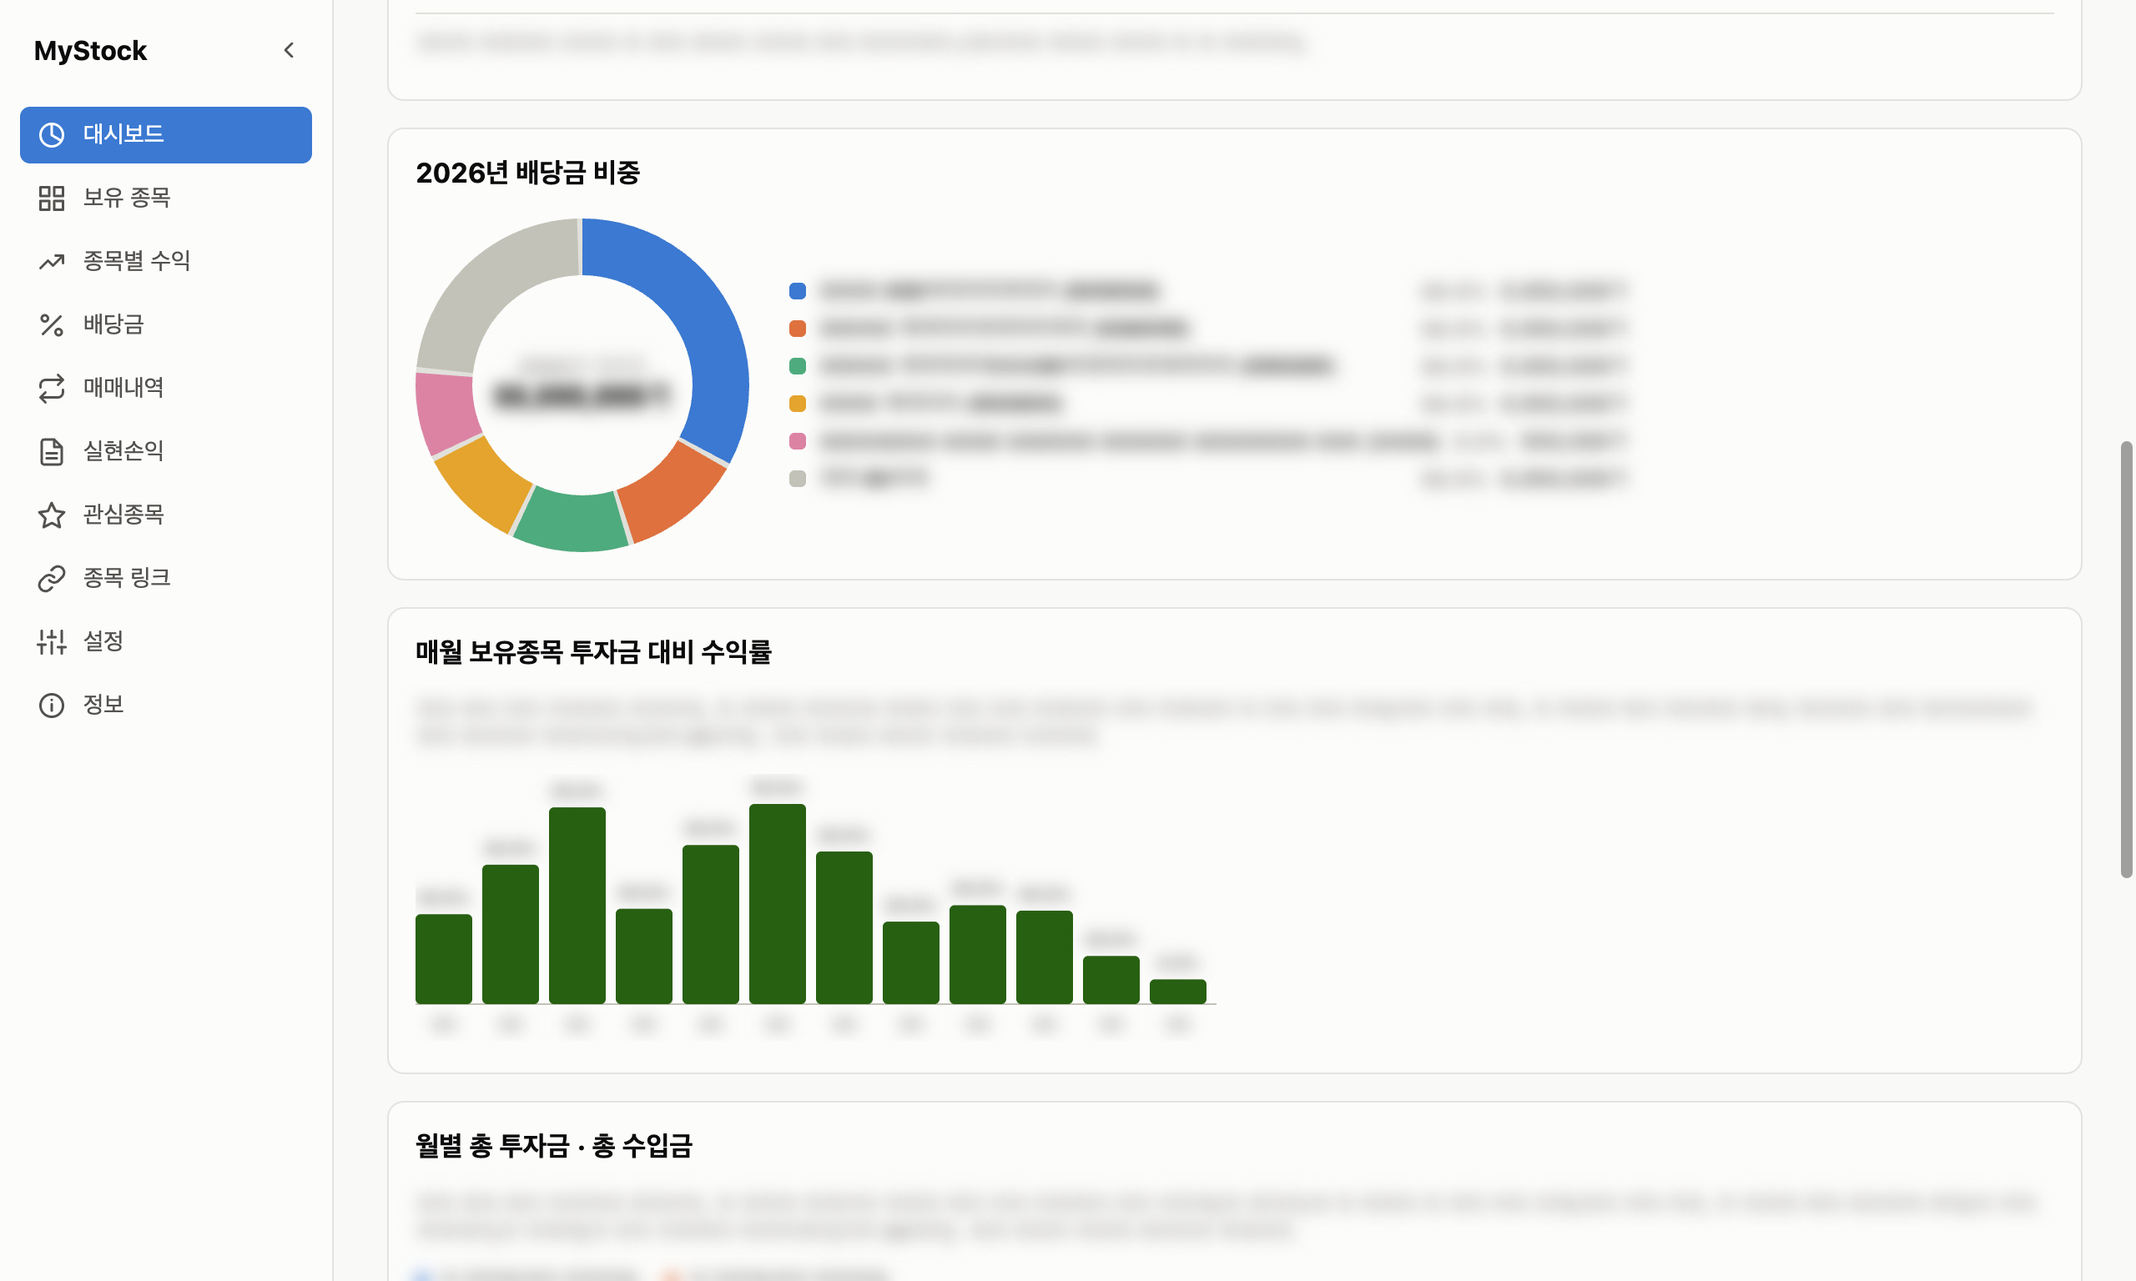
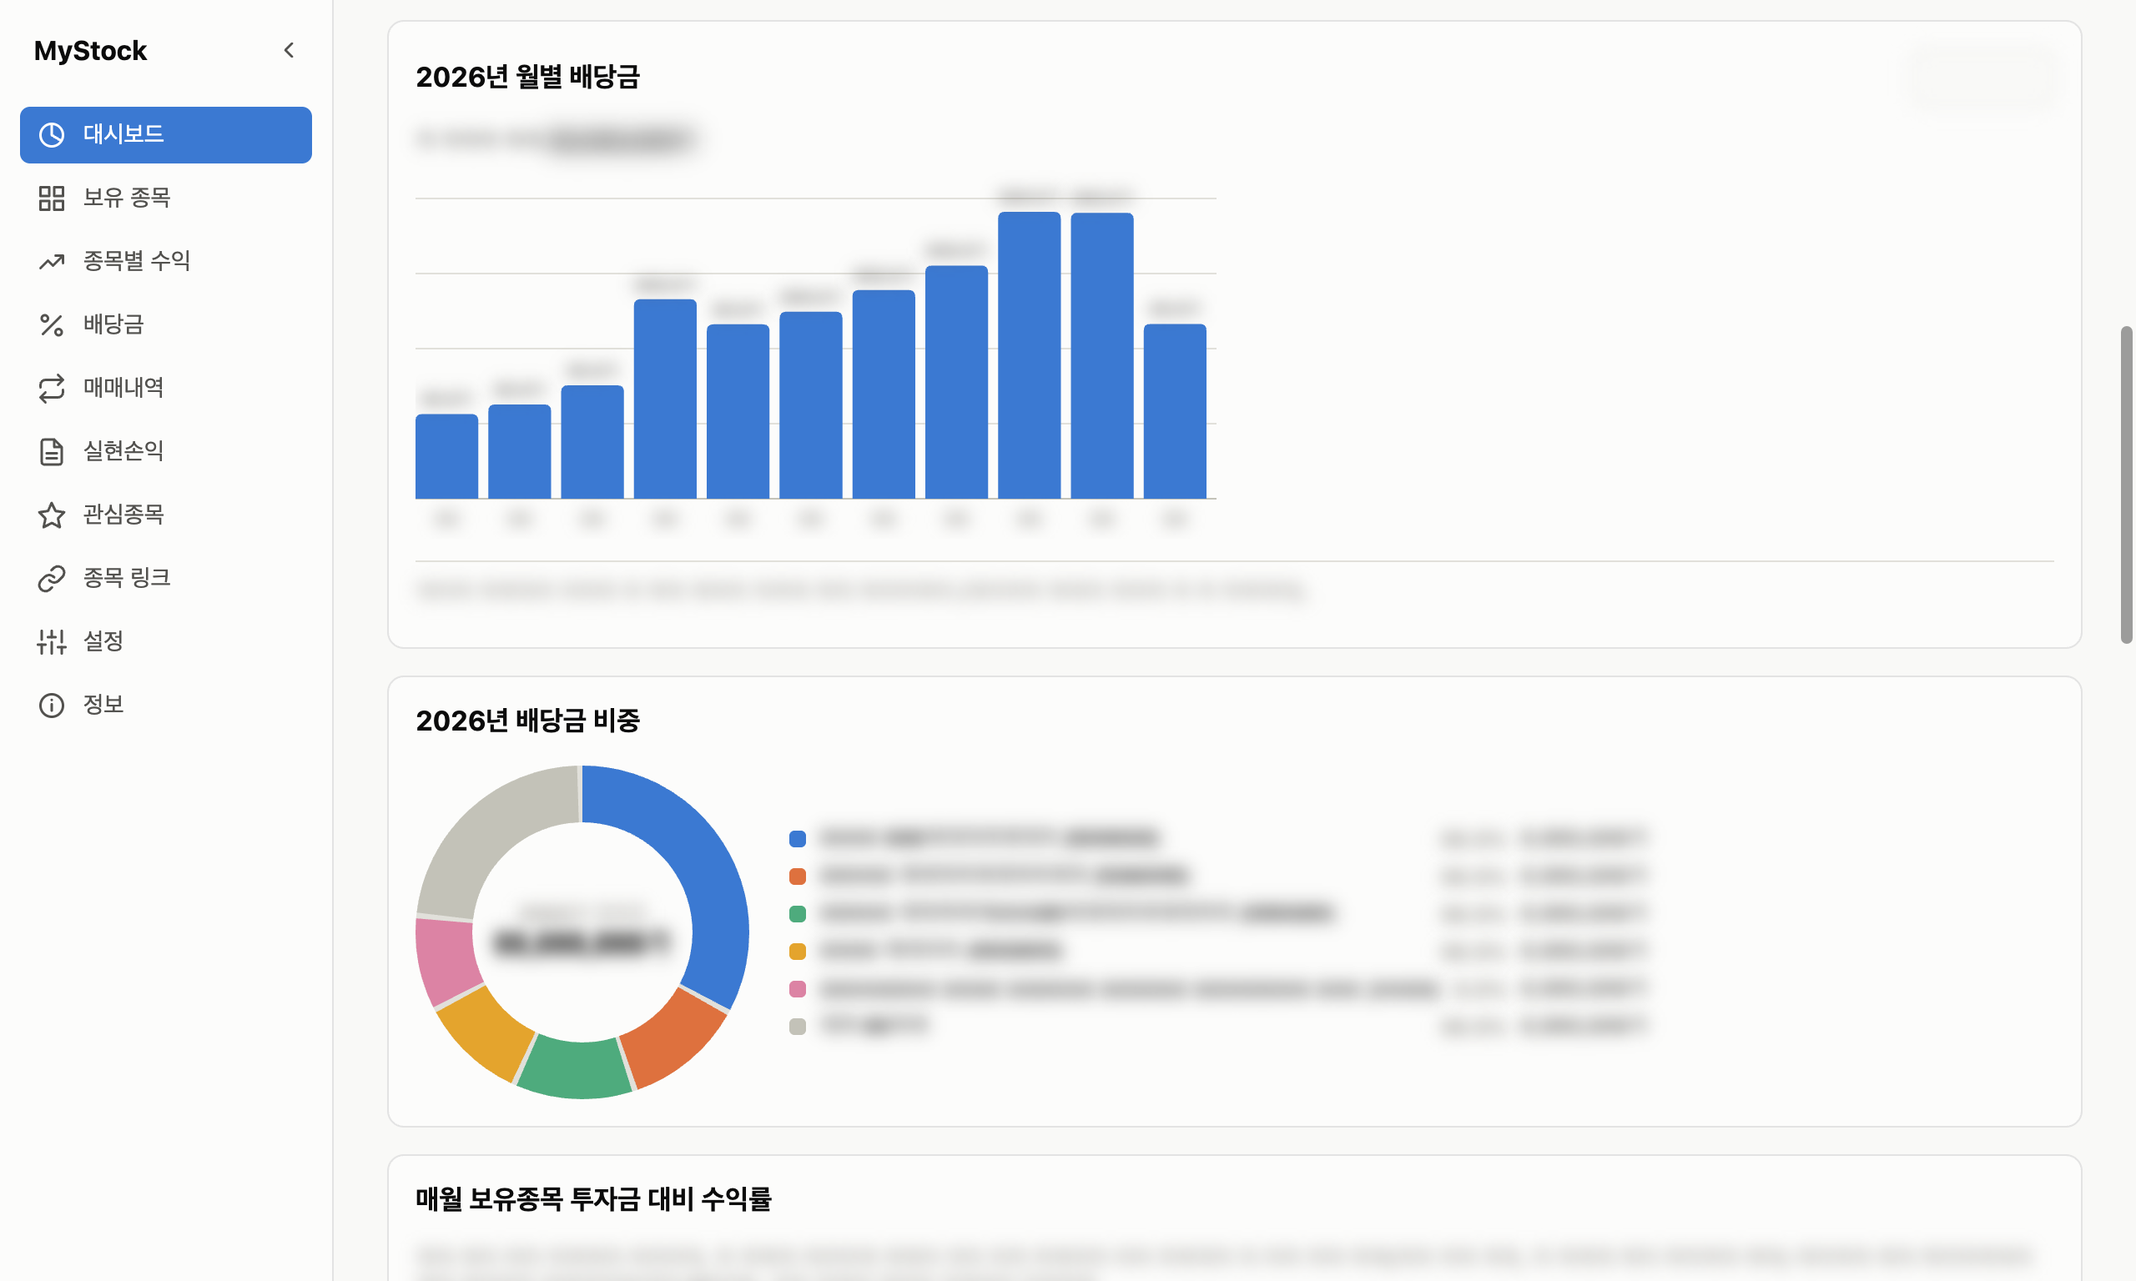
docs: 매뉴얼·README·CLAUDE.md 최신화와 스크린샷 갱신
- 매뉴얼: 한투 미국 주식 보유·체결, 한투 달러 배당 직접 기록 예외(CSV 포함), 해외 공식 실현손익 카드, 섹터 '분류 안 됨' 문제 해결 추가
- 스크린샷: 화면 9장을 새로 찍고 새 카드 5장 추가(섹터 비중, 입금 기준 투자원금, 다가오는 배당, 한투 공식 실현손익, 관심종목 종목 정보) — 가짜 문자 치환+블러, OCR로 실데이터 미검출 확인
- README: 해외 기간손익, 한투 달러 배당 예외, 입금 기준 카드가 토스 전용인 이유
- CLAUDE.md: KIS 국내+미국, API 부가 기능 지도, 테스트 목록, 달러 예수금, 동기화 소유 범위

diff --git a/doc/user-manual.md b/doc/user-manual.md
@@ -128,7 +128,7 @@ GitHub 릴리스에서 OS에 맞는 파일을 받아 설치합니다.
 | KB증권 | Open API(계좌 1개) + CSV | API를 등록한 계좌 하나의 보유 종목·매매내역은 화면을 열 때 자동 동기화, 나머지 계좌는 CSV, 배당은 직접 입력 |
 | 삼성증권 · 미래에셋증권 | CSV 전용 | 보유 종목·매매내역을 CSV로 가져와 관리, 배당은 직접 입력 |
 
-배당금은 **토스증권·한국투자증권은 API로 자동 동기화**하고, 그 밖의 증권사는 **직접 기록**합니다([6. 배당금](#6-배당금)).
+배당금은 **토스증권·한국투자증권은 API로 자동 동기화**하고(한국투자증권의 미국 주식 배당은 제외), 그 밖의 증권사는 **직접 기록**합니다([6. 배당금](#6-배당금)).
 
 ---
 
@@ -174,6 +174,8 @@ GitHub 릴리스에서 OS에 맞는 파일을 받아 설치합니다.
   - **총 손익금액 (배당 포함)**: 위 값에, 지금 보유 중인 종목이 **그 계좌에서** 받은 배당금을 더한 값입니다. 다 팔아버린 종목의 배당은 들어가지 않습니다.
   - **올해 총 배당금**
 - **전체 계좌 보유종목 비중**: 평가금액 상위 종목과 나머지("기타")를 도넛으로 보여줍니다. 카드를 누르면 종목별/계좌별 상세가 열립니다.
+![대시보드 — 섹터 비중(ETF 포함)](images/01-dashboard-c.png)
+
 - **섹터 비중**: 보유 종목을 토스증권 섹터 분류(대분류: 반도체, 자동차, 금융 등)로 묶은 도넛입니다(토스 API 키 필요).
   - 여러 섹터에 속한 종목은 평가금액을 똑같이 나누고, **우선주는 보통주의 섹터**를 따릅니다.
   - **ETF도 섹터로 나눕니다.**
@@ -203,6 +205,7 @@ GitHub 릴리스에서 OS에 맞는 파일을 받아 설치합니다.
 
 1. **증권사**를 고르고, **계좌**를 고릅니다. 계좌 목록 맨 아래 **전체 계좌**를 고르면 그 증권사의 모든 계좌를 합쳐서 보고, 표에 "계좌" 열이 생깁니다.
 2. 상단 카드: 예수금, 총 매입금액/총 평가금액, **총 손익금액(배당 제외/포함)**, 손익률. 달러 보유분이 있으면 원화·달러·합계(환산)로 나눠 보여줍니다.
+   - 한국투자증권은 **국내 주식과 미국 주식**을 함께 보여줍니다(미국 주식은 달러, 달러 예수금 포함). 미국 외 해외 시장은 지원하지 않습니다.
 3. 종목 표의 열
 
    | 열 | 뜻 |
@@ -216,6 +219,8 @@ GitHub 릴리스에서 OS에 맞는 파일을 받아 설치합니다.
   - 화면 위에 **국내·미국 장 상태**(예: "국내 정규장 · 미국 데이마켓", "국내 휴장")가 보입니다. **두 시장이 모두 닫혀 있으면 자동 새로고침을 쉽니다**(시세가 안 움직여서). 수동 새로고침은 언제든 됩니다.
 - 종목명 옆 빨간 배지는 **매수 유의사항**입니다: 정리매매, 단기과열, 투자경고, 투자위험, VI 발동, 신주인수권(토스 API 키 필요). 마우스를 올리면 기간이 보입니다.
 - KB증권의 API 연동 계좌는 화면을 열 때 백그라운드로 최신화됩니다.
+![보유 종목 — 입금 기준 투자원금과 수익(토스증권)](images/02-holdings-b.png)
+
 - **입금 기준 투자원금과 수익 (토스증권)**: 표 위 카드에서 은행에서 넣고 뺀 돈(순입금)과 지금 계좌 자산(평가금액 + 예수금)을
   비교한 **실제 수익·수익률**을 봅니다. 매입금액 기준 손익과 달리 매도로 확정된 손익, 배당·이자, 세금·수수료가 모두 들어갑니다.
   펼치면 연도별 입금·출금이 보입니다.
@@ -257,6 +262,7 @@ GitHub 릴리스에서 OS에 맞는 파일을 받아 설치합니다.
   **API 내용으로 맞춥니다.** 목록 위 **배당 동기화** 버튼으로 바로 다시 맞출 수도 있습니다.
   - 증권사 API가 원천이라 이 두 증권사의 배당은 **직접 추가·수정·삭제할 수 없고**(목록에 "API 연동"으로 표시),
     CSV·Google Sheets 가져오기에서도 건너뜁니다. 직접 붙인 메모는 동기화 때 사라집니다.
+    단, **한국투자증권의 달러 배당**(미국 주식)은 API가 주지 않으므로 직접 기록하고 고칠 수 있습니다(아래).
   - **토스증권**: 일반 배당, **국내 ETF 분배금**, **외화세금환급**(미국 ETF 배당에서 뗀 세금을 이듬해 돌려받은 돈, 메모 "외화세금환급").
     날짜는 토스증권 앱에 보이는 입금일입니다. 미국 배당은 현지 세금이 이미 빠진 금액이라 세금 칸이 0입니다.
   - **한국투자증권**: 국내 배당과 ETF 분배금. 날짜는 현금 지급일이고, **지급 예정인 배당은 지급일이 지나야 들어옵니다.**
@@ -264,6 +270,8 @@ GitHub 릴리스에서 OS에 맞는 파일을 받아 설치합니다.
     증권사 "한국투자증권 (달러 배당만)"을 고르면 통화가 달러로 고정됩니다). 직접 적은 달러 배당은 동기화가 지우지 않습니다.
   - 우선주 배당은 증권사가 보통주 코드로 알려 주는데, 우선주를 사고판 기록이 있으면 우선주 코드로 저장합니다.
 - **KB·삼성·미래에셋**: 입금된 배당을 조회할 수 있는 API가 없어서, 받은 배당을 **직접 기록**합니다(세금은 선택).
+
+![배당금 — 다가오는 배당](images/04-dividends-c.png)
 
 - **다가오는 배당 (한국투자증권 API 키 필요)**: 앞으로 120일 안의 국내 배당을 보여줍니다.
   - **확정**: 한국투자증권 계좌에 배정된 지급 예정 배당(세금까지 정확).
@@ -283,7 +291,7 @@ GitHub 릴리스에서 OS에 맞는 파일을 받아 설치합니다.
 
 - 목록의 각 행은 **수정**으로 그 자리에서 고칠 수 있습니다.
 - **종목명 일괄 갱신**: 저장된 기록의 종목명을 최신 이름으로 다시 채웁니다.
-- **CSV 내보내기/가져오기**: 컬럼 `broker, accountId, symbol, currency, amount, paidDate, memo`(+ 선택 `tax`). `amount`는 세후입니다. 토스·한국투자증권 행은 가져오지 않습니다.
+- **CSV 내보내기/가져오기**: 컬럼 `broker, accountId, symbol, currency, amount, paidDate, memo`(+ 선택 `tax`). `amount`는 세후입니다. 토스증권 행과 한국투자증권의 원화 행은 가져오지 않습니다(한국투자증권 달러 행은 가져옴).
 
 ---
 
@@ -292,6 +300,7 @@ GitHub 릴리스에서 OS에 맞는 파일을 받아 설치합니다.
 ![매매내역 — 요약 카드와 월별 매수/매도 그래프](images/05-trades.png)
 
 - 위쪽에서 **증권사**(또는 **전체**), 계좌, 보기(연간/월간), 연도를 고릅니다.
+- 한국투자증권은 국내 체결과 **미국 주식 체결(달러, 현지 주문일 기준)**을 함께 가져옵니다.
 - 상단 카드: 총 매수금액, 총 매도금액, 매수 건수, 매도 건수
 - **월별 매수/매도** 그래프는 원화와 달러를 섞지 않고 위아래로 따로 그립니다.
 
@@ -316,9 +325,12 @@ GitHub 릴리스에서 OS에 맞는 파일을 받아 설치합니다.
 - 국내 상장 종목 매도와 ISA·연금저축·IRP 계좌 매도는 22% 계산에서 빼고 따로 보여줍니다. 계좌의 세금 유형은 [설정](#2-증권사-연결하기-설정)에서 정합니다.
 - 배당소득은 양도소득과 따로 보여주며, 금융소득종합과세 기준(연 2,000만 원) 대비 비율을 함께 표시합니다.
 - 매수 기록이 없는 매도분은 원가를 알 수 없어 계산에서 빠집니다.
-- **한국투자증권 공식 실현손익과 비교** (한국투자증권 API 키 필요): 그 해 한국투자증권 계좌의 국내 매도를 증권사가
+![실현손익 — 한국투자증권 공식 실현손익과 비교](images/06-realized-gains-b.png)
+
+- **한국투자증권 공식 실현손익과 비교** (한국투자증권 API 키 필요): 그 해 한국투자증권 계좌의 매도를 증권사가
   계산한 실현손익(수수료·세금 차감)과 앱 추정치를 종목별로 나란히 보여줍니다. 차이가 크면 매매내역이 덜 모였거나
   원가 기준이 다른 것이니 증권사 값을 기준으로 보세요.
+  - 국내 매도 카드는 항상, **해외(미국) 매도 카드**는 그 해 한국투자증권 달러 매도가 있을 때 보입니다(증권사 값도 원화 환산).
 
 ---
 
@@ -331,6 +343,8 @@ GitHub 릴리스에서 OS에 맞는 파일을 받아 설치합니다.
 1. **종목코드**를 입력하고 **추가**를 누릅니다(종목명은 자동으로 채워짐).
 2. 목록에서 종목 행을 누르면 아래에 상세(현재가, 시장, 통화)와 **월별 종가 차트**가 열립니다. 차트 기간은 최근 12개월 / 전체 기간 / 연도별로 바꿀 수 있습니다.
 3. 오른쪽 **삭제**로 목록에서 뺍니다.
+
+![관심종목 — 국내 ETF의 종목 정보(NAV·구성 종목)](images/07-watchlist-b.png)
 
 **국내 종목 정보 (한국투자증권 API 키 필요)** — 국내 종목의 상세 아래에 **종목 정보** 칸이 붙습니다.
 - **주식**: 연간 재무비율(매출·영업이익·순이익 증가율, ROE, EPS, BPS, 부채비율)과 최근 6개월 **증권사 투자의견·목표가**.
@@ -456,6 +470,10 @@ MyStock의 데이터는 이 컴퓨터에만 저장됩니다. PC를 바꾸거나 
 
 ### "환율 미적용"이 보일 때
 실시간 환율을 가져오지 못해 달러 금액을 원화로 합치지 못한 것입니다. **설정 → USD/KRW 환율**에 환율을 직접 입력하세요.
+
+### 섹터 비중에 "분류 안 됨"이 클 때
+미국 지수·커버드콜 ETF처럼 토스증권 섹터 분류에 없는 ETF와, 국내 ETF의 비중 상위 30개 밖 종목·채권·현금이 여기에 들어갑니다.
+국내 ETF를 구성종목으로 나누려면 한국투자증권 API 키가 필요합니다. 그날 처음 열었다면 ETF 섹터 분류를 받는 약 2분 동안은 더 크게 보일 수 있습니다.
 
 ### 배당 포함 손익에 배당이 안 들어갈 때
 배당 기록의 **계좌**가 비어 있고 그 증권사에 계좌가 여러 개면 어느 계좌 배당인지 알 수 없어 더하지 않습니다. 배당금 화면에서 그 기록의 계좌를 채워 주세요. 토스증권은 설정의 계좌 별칭에 **표시용 계좌번호**를 입력해 두면 그 번호로 적은 배당도 인식합니다.

diff --git a/README.md b/README.md
@@ -25,7 +25,7 @@
 
 ## 주요 기능
 
-- **대시보드** — 모든 증권사·계좌를 합친 총 매입/평가금액, 손익(배당 제외·포함), 보유 비중, **섹터 비중**,
+- **대시보드** — 모든 증권사·계좌를 합친 총 매입/평가금액, 손익(배당 제외·포함), 보유 비중, **섹터 비중**(ETF는 구성종목·섹터 분류로 나눔),
   월별 배당금, 월별 수익률과 **코스피·코스닥 비교**, 순자산 추이(하루 한 번 기록한 실제 자산 스냅샷).
 - **보유 종목** — 증권사·계좌별 손익과 비중, 그 계좌에서 그 종목으로 받은 배당까지 더한 **배당 포함 손익**,
   토스 계좌의 **입금 기준 투자원금·수익률**(은행 입출금 대비 지금 자산),
@@ -36,7 +36,7 @@
   달러 배당은 받은 달의 평균 환율로 원화 환산합니다. 한국투자증권 키가 있으면 **다가오는 배당**(국내, 120일 —
   한투 계좌 확정분 + 모든 증권사 국내 보유 종목의 예탁원 일정 기반 예상)도 보여줍니다.
 - **매매내역 · 실현손익** — 월별 매수/매도, 이동평균법 실현손익과 해외주식 양도세 **참고용** 추정치
-  (ISA·연금저축·IRP 계좌는 제외). 한국투자증권 계좌는 증권사가 계산한 **공식 실현손익과 종목별로 비교**합니다.
+  (ISA·연금저축·IRP 계좌는 제외). 한국투자증권 계좌는 증권사가 계산한 **공식 실현손익과 종목별로 비교**합니다(국내·해외).
 - **관심종목 · 종목 링크** — 보유하지 않은 종목의 현재가와 월별 종가 차트, 종목명을 눌렀을 때 열 웹페이지.
   한국투자증권 키가 있으면 국내 종목의 재무비율·증권사 투자의견·뉴스 제목, ETF의 NAV·괴리율·구성 종목도 보여줍니다.
 - **설정** — 증권사 API 키(OS 키체인 기반 암호화, 로컬 저장), 계좌 별칭·세금 유형, 수동 환율,
@@ -54,8 +54,8 @@
 - **배당**: 거래내역(`GET /api/v1/transactions`)에서 배당, 국내 ETF 분배금(입금으로 옴), 외화세금환급
   (메모 "외화세금환급")을 받아 토스 계좌의 배당 기록을 API 내용으로 맞춥니다. 우선주 배당은 보통주 코드로
   오므로 보유·매매한 우선주 코드로 저장합니다.
-- **투자원금**: 거래내역의 종목 없는 입금·출금(은행 이체)만 원금으로 센다. 환전·분배금·세금 출금·채권은 제외,
-  타사 이관 입고는 금액이 없어 건수만 알린다.
+- **투자원금**: 거래내역의 종목 없는 입금·출금(은행 이체)만 원금으로 셉니다. 환전·분배금·세금 출금·채권은 빼고,
+  다른 증권사에서 옮겨 온 주식(입고)은 금액이 없어 건수만 알립니다.
 - **시장 정보**(계좌 무관, 어느 증권사 보유 종목에든 적용): 장 운영 캘린더, 매수 유의사항, 코스피·코스닥
   지표(미국 지수는 API에 없음), 섹터 분류(종목은 섹터 구성 주식, ETF는 섹터 관련 ETF — 하루 한 번 받아 저장).
   국내 ETF는 한국투자증권 구성종목(`FHKST121600C0`, 상위 30)으로 쪼개 섹터 비중에 넣습니다.
@@ -77,7 +77,9 @@
   앞으로의 일정이 거의 없어 쓰지 않습니다.
 - **종목 정보**(계좌 무관, 국내): 재무비율(`FHKST66430300`), 투자의견(`FHKST663300C0`), 뉴스·공시 제목
   (`FHKST01011800`), ETF 현재가·NAV(`FHPST02400000`), ETF 구성종목(`FHKST121600C0`, 상위 30개).
-- **공식 실현손익**: 기간별매매손익현황조회(`TTTC8715R`, 국내)로 실현손익 화면의 앱 추정치와 대조합니다.
+- **공식 실현손익**: 기간별매매손익현황조회(`TTTC8715R`, 국내)와 해외 기간손익(`TTTS3039R`, 원화 기준)으로 실현손익
+  화면의 앱 추정치와 종목별로 대조합니다.
+- 다른 증권사와 달리 **입출금 내역 API가 없어** 보유 종목 화면의 "입금 기준 투자원금" 카드는 토스 계좌에만 있습니다.
 
 ### KB증권
 - `appKey`/`appSecret`이 발급 시점에 **계좌 하나에 묶여** 있고 계좌 목록 조회 API가 없습니다. 그래서 KB는
@@ -89,7 +91,8 @@
 - API 연동 없이 CSV(또는 Google Sheets)로 보유 종목·매매내역을 가져오고, 배당은 직접 입력합니다.
 
 ### 공통
-- 토스증권·한국투자증권 계좌의 배당 행은 API가 원천이라 직접 수정하거나 CSV·Sheets로 가져올 수 없습니다.
+- 토스증권·한국투자증권 계좌의 배당 행은 API가 원천이라 직접 수정하거나 CSV·Sheets로 가져올 수 없습니다
+  (한국투자증권의 달러 배당은 예외 — API가 주지 않아 직접 기록합니다).
 - 환율을 가져오지 못하면 달러 금액을 억지로 합산하지 않고 "환율 미적용"으로 표시합니다.
 - **API 자격증명은 절대 커밋되지 않습니다.** 실제 데이터는 OS의 앱 데이터 폴더에 저장됩니다(아래).
 
